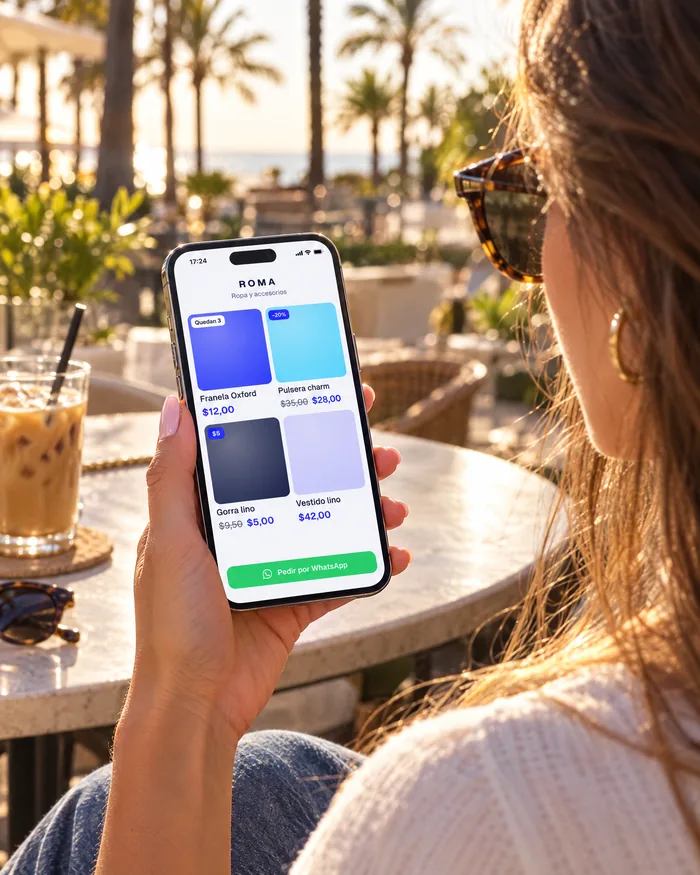
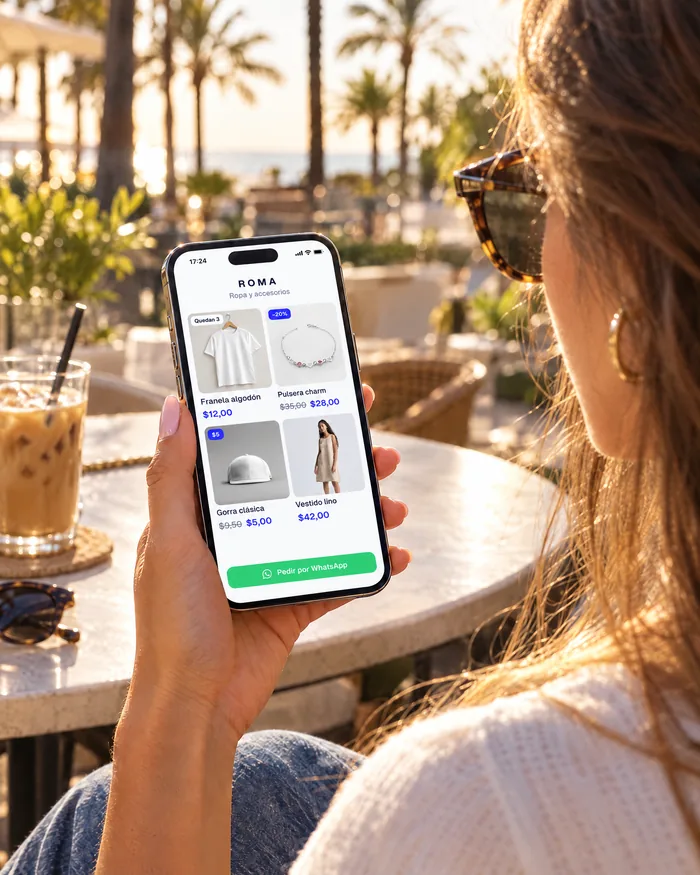
Landing: fotos reales de productos y los dos tipos de dominio
- Productos con fotos de stock de Unsplash (licencia libre) en el punto de
  venta, el inventario, la venta del mostrador y el catálogo: franela,
  pulsera charm, jean, gorra y vestido. "Franela Oxford" pasa a "Franela
  algodón" y "Gorra lino" a "Gorra clásica" para que coincidan con las fotos.
- El hero y la escena del café se regeneraron en Higgsfield con las
  pantallas nuevas, manteniendo la composición anterior.
- Marca blanca: una tienda entra por su subdominio tutienda.zetenta.app o
  por su dominio propio; la tarjeta alterna ejemplos de los dos y muestra
  el tipo.

diff --git a/landing/index.html b/landing/index.html
@@ -130,7 +130,7 @@
 
       <div class="hero-device">
         <div class="hero-device-glow" aria-hidden="true"></div>
-        <img src="/img/hero-telefonos-1600.webp" srcset="/img/hero-telefonos-900.webp 900w, /img/hero-telefonos-1600.webp 1531w" sizes="(max-width: 700px) 92vw, 760px" width="1531" height="1464" alt="Dos teléfonos con Zetenta: el punto de venta con una venta de $59,00 y el catálogo web de la tienda Roma" fetchpriority="high" />
+        <img src="/img/hero-telefonos-1600.webp" srcset="/img/hero-telefonos-900.webp 900w, /img/hero-telefonos-1600.webp 1537w" sizes="(max-width: 700px) 92vw, 760px" width="1537" height="1466" alt="Dos teléfonos con Zetenta: el punto de venta con una venta de $59,00 y el catálogo web de la tienda Roma" fetchpriority="high" />
       </div>
 
       <div class="scroll-hint mono" aria-hidden="true"><span></span>DESLIZA</div>
@@ -237,14 +237,14 @@
                 <div class="ps-head"><b>Nueva venta</b><span class="mono">ROMA</span></div>
                 <div class="ps-search">Buscar producto o SKU…</div>
                 <div class="ps-grid">
-                  <div class="ps-prod"><i style="--c:#2323FF"></i><b>Franela Oxford</b><span>$12,00</span></div>
-                  <div class="ps-prod"><i style="--c:#4CD5FF"></i><b>Pulsera charm</b><span>$35,00</span></div>
-                  <div class="ps-prod"><i style="--c:#0B0F3A"></i><b>Jean recto</b><span>$28,00</span></div>
-                  <div class="ps-prod"><i style="--c:#C9CBFF"></i><b>Gorra lino</b><span>$9,50</span></div>
+                  <div class="ps-prod"><img src="/img/productos/franela.webp" alt="" loading="lazy" /><b>Franela algodón</b><span>$12,00</span></div>
+                  <div class="ps-prod"><img src="/img/productos/pulsera.webp" alt="" loading="lazy" /><b>Pulsera charm</b><span>$35,00</span></div>
+                  <div class="ps-prod"><img src="/img/productos/jean.webp" alt="" loading="lazy" /><b>Jean recto</b><span>$28,00</span></div>
+                  <div class="ps-prod"><img src="/img/productos/gorra.webp" alt="" loading="lazy" /><b>Gorra clásica</b><span>$9,50</span></div>
                 </div>
                 <div class="ps-cart">
                   <div class="ps-line"><span>Pulsera charm ×1</span><span>$35,00</span></div>
-                  <div class="ps-line"><span>Franela Oxford M ×2</span><span>$24,00</span></div>
+                  <div class="ps-line"><span>Franela algodón M ×2</span><span>$24,00</span></div>
                   <div class="ps-total"><span>Total</span><b class="led">$59,00</b></div>
                   <div class="ps-btn">Cobrar</div>
                 </div>
@@ -339,28 +339,28 @@
           </div>
           <div class="inv-rows">
             <div class="inv-row">
-              <i class="inv-thumb" style="--c:#2323FF"></i>
-              <div class="inv-info"><b>Franela Oxford</b><div class="chips"><span class="chip" style="--c:#0B0E2A"></span><span class="chip" style="--c:#fff"></span><span class="chip" style="--c:#2323FF"></span><em>S · M · L</em></div></div>
+              <img class="inv-thumb" src="/img/productos/franela.webp" alt="" loading="lazy" />
+              <div class="inv-info"><b>Franela algodón</b><div class="chips"><span class="chip" style="--c:#0B0E2A"></span><span class="chip" style="--c:#fff"></span><span class="chip" style="--c:#2323FF"></span><em>S · M · L</em></div></div>
               <div class="inv-stock"><b class="led" data-stock="24">24</b><em>en stock</em></div>
             </div>
             <div class="inv-row">
-              <i class="inv-thumb" style="--c:#4CD5FF"></i>
-              <div class="inv-info"><b>Pulsera charm</b><div class="chips"><span class="chip" style="--c:#D8B66A"></span><span class="chip" style="--c:#C8CAD6"></span><em>Dorado · Plata</em></div></div>
+              <img class="inv-thumb" src="/img/productos/pulsera.webp" alt="" loading="lazy" />
+              <div class="inv-info"><b>Pulsera charm</b><div class="chips"><span class="chip" style="--c:#D8B66A"></span><span class="chip" style="--c:#C8CAD6"></span><em>Plata · Dorado</em></div></div>
               <div class="inv-stock"><b class="led" data-stock="11">11</b><em>en stock</em></div>
             </div>
             <div class="inv-row low">
-              <i class="inv-thumb" style="--c:#0B0F3A"></i>
+              <img class="inv-thumb" src="/img/productos/jean.webp" alt="" loading="lazy" />
               <div class="inv-info"><b>Jean recto</b><div class="chips"><em>28 · 30 · 32</em><span class="badge-low">Bajo</span></div></div>
               <div class="inv-stock"><b class="led" data-stock="3">3</b><em>en stock</em></div>
             </div>
             <div class="inv-row">
-              <i class="inv-thumb" style="--c:#C9CBFF"></i>
+              <img class="inv-thumb" src="/img/productos/vestido.webp" alt="" loading="lazy" />
               <div class="inv-info"><b>Vestido lino</b><div class="chips"><span class="chip" style="--c:#EDE3D1"></span><span class="chip" style="--c:#1E1E1E"></span><em>Única</em></div></div>
               <div class="inv-stock"><b class="led" data-stock="8">8</b><em>en stock</em></div>
             </div>
           </div>
           <div class="inv-transfer">
-            <div class="it-node"><span class="mono">PRINCIPAL</span><b>Franela Oxford M</b></div>
+            <div class="it-node"><span class="mono">PRINCIPAL</span><b>Franela algodón M</b></div>
             <div class="it-track"><i></i><i></i><i></i><i></i><i></i><span class="it-box">×6</span></div>
             <div class="it-node"><span class="mono">LECHERÍA</span><b>Traslado listo</b></div>
           </div>
@@ -386,8 +386,8 @@
             <div class="app-panel sync-pos">
               <div class="ap-head"><b>Venta</b><span class="mono">MOSTRADOR</span></div>
               <div class="sync-item">
-                <i class="inv-thumb" style="--c:#2323FF"></i>
-                <div><b>Franela Oxford · M</b><em>$12,00</em></div>
+                <img class="inv-thumb" src="/img/productos/franela.webp" alt="" loading="lazy" />
+                <div><b>Franela algodón · M</b><em>$12,00</em></div>
                 <span class="sync-qty led">×1</span>
               </div>
               <div class="sync-stockline"><span>Stock</span><b class="led" id="syncStock">3</b></div>
@@ -405,19 +405,19 @@
                 <div class="cat-head"><b>ROMA</b><span>Ropa y accesorios</span></div>
                 <div class="cat-grid">
                   <div class="cat-card" id="catCard">
-                    <div class="cat-img" style="--c:#2323FF"><span class="cat-badge" id="catBadge">Quedan 3</span></div>
-                    <b>Franela Oxford</b><span class="cat-price">$12,00</span>
+                    <div class="cat-img"><img src="/img/productos/franela.webp" alt="" loading="lazy" /><span class="cat-badge" id="catBadge">Quedan 3</span></div>
+                    <b>Franela algodón</b><span class="cat-price">$12,00</span>
                   </div>
                   <div class="cat-card">
-                    <div class="cat-img" style="--c:#4CD5FF"><span class="cat-badge off">−20%</span></div>
+                    <div class="cat-img"><img src="/img/productos/pulsera.webp" alt="" loading="lazy" /><span class="cat-badge off">−20%</span></div>
                     <b>Pulsera charm</b><span class="cat-price"><s>$35,00</s> $28,00</span>
                   </div>
                   <div class="cat-card">
-                    <div class="cat-img" style="--c:#0B0F3A"><span class="cat-badge fix">$5</span></div>
-                    <b>Gorra lino</b><span class="cat-price"><s>$9,50</s> $5,00</span>
+                    <div class="cat-img"><img src="/img/productos/gorra.webp" alt="" loading="lazy" /><span class="cat-badge fix">$5</span></div>
+                    <b>Gorra clásica</b><span class="cat-price"><s>$9,50</s> $5,00</span>
                   </div>
                   <div class="cat-card">
-                    <div class="cat-img" style="--c:#C9CBFF"></div>
+                    <div class="cat-img"><img src="/img/productos/vestido.webp" alt="" loading="lazy" /></div>
                     <b>Vestido lino</b><span class="cat-price">$42,00</span>
                   </div>
                 </div>
@@ -552,13 +552,26 @@
       <div class="wl-copy">
         <p class="eyebrow mono">TU MARCA</p>
         <h2 class="display">Tus clientes ven tu tienda. No la nuestra.</h2>
-        <p class="body-lg">Tu catálogo y tu sistema llevan tu nombre, tu logo y tu color, en tu propio dominio. Zetenta trabaja detrás.</p>
+        <p class="body-lg">Tu catálogo y tu sistema llevan tu nombre, tu logo y tu color. Zetenta trabaja detrás.</p>
+        <div class="wl-domains">
+          <div class="wl-domain">
+            <span class="mono">TU SUBDOMINIO</span>
+            <b>tutienda<i>.zetenta.app</i></b>
+            <em>Tu tienda en Zetenta, con tu nombre al frente.</em>
+          </div>
+          <div class="wl-domain">
+            <span class="mono">O TU DOMINIO PROPIO</span>
+            <b>tutienda<i>.com</i></b>
+            <em>Si ya tienes uno, tu tienda vive ahí y tus clientes solo ven tu marca.</em>
+          </div>
+        </div>
       </div>
       <div class="wl-visual">
         <div class="wl-card" id="wlCard">
           <div class="wl-top">
             <span class="wl-logo" id="wlLogo">R</span>
             <div><b id="wlName">Roma</b><em id="wlDomain">roma.zetenta.app</em></div>
+            <span class="wl-kind" id="wlKind">Subdominio</span>
           </div>
           <div class="wl-body">
             <div class="wl-field"></div>

diff --git a/landing/src/style.css b/landing/src/style.css
@@ -418,7 +418,7 @@ button { font: inherit; color: inherit; background: none; border: 0; cursor: poi
 .ps-search { background: rgba(255,255,255,.07); border-radius: 10px; padding: 9px 12px; color: rgba(255,255,255,.4); font-size: 12px; }
 .ps-grid { display: grid; grid-template-columns: 1fr 1fr; gap: 8px; }
 .ps-prod { background: rgba(255,255,255,.06); border-radius: 12px; padding: 8px; display: grid; gap: 4px; font-size: 11px; }
-.ps-prod i { display: block; aspect-ratio: 1.6; border-radius: 8px; background: radial-gradient(120% 100% at 30% 20%, color-mix(in srgb, var(--c) 70%, #fff), var(--c)); }
+.ps-prod img { display: block; width: 100%; aspect-ratio: 1.6; object-fit: cover; border-radius: 8px; background: #EEF0F6; }
 .ps-prod b { font-weight: 500; }
 .ps-prod span { color: rgba(255,255,255,.55); }
 .ps-cart { margin-top: auto; background: rgba(255,255,255,.06); border-radius: 14px; padding: 10px; display: grid; gap: 6px; font-size: 12px; }
@@ -517,7 +517,7 @@ button { font: inherit; color: inherit; background: none; border: 0; cursor: poi
 .inv-rows { display: grid; gap: 8px; }
 .inv-row { display: grid; grid-template-columns: auto 1fr auto; gap: 14px; align-items: center; padding: 12px; border-radius: 16px; background: rgba(255,255,255,.04); box-shadow: inset 0 0 0 1px rgba(255,255,255,.05); }
 .inv-row.low { box-shadow: inset 0 0 0 1px rgba(255,105,97,.35); background: rgba(255,105,97,.05); }
-.inv-thumb { width: 48px; height: 48px; border-radius: 13px; background: radial-gradient(120% 120% at 30% 20%, color-mix(in srgb, var(--c) 65%, #fff), var(--c)); box-shadow: inset 0 1px 0 rgba(255,255,255,.4); }
+.inv-thumb { width: 48px; height: 48px; border-radius: 13px; object-fit: cover; background: #EEF0F6; }
 .inv-info b { font-weight: 500; font-size: 15px; }
 .chips { display: flex; align-items: center; gap: 5px; margin-top: 4px; }
 .chip { width: 13px; height: 13px; border-radius: 4px; background: var(--c); box-shadow: inset 0 0 0 1px rgba(255,255,255,.25); }
@@ -561,8 +561,9 @@ button { font: inherit; color: inherit; background: none; border: 0; cursor: poi
 .cat-grid { display: grid; grid-template-columns: 1fr 1fr; gap: 8px; }
 .cat-card { display: grid; gap: 2px; font-size: 10.5px; transition: opacity .4s, filter .4s; }
 .cat-card b { font-weight: 500; }
-.cat-img { position: relative; aspect-ratio: 1; border-radius: 10px; background: radial-gradient(120% 120% at 30% 20%, color-mix(in srgb, var(--c) 55%, #fff), var(--c)); }
-.cat-badge { position: absolute; top: 5px; left: 5px; font-size: 9px; font-weight: 600; padding: 2px 6px; border-radius: 6px; background: #fff; color: var(--tinta); }
+.cat-img { position: relative; aspect-ratio: 1; border-radius: 10px; overflow: hidden; background: #EEF0F6; }
+.cat-img img { position: absolute; inset: 0; width: 100%; height: 100%; object-fit: cover; }
+.cat-badge { position: absolute; z-index: 1; top: 5px; left: 5px; font-size: 9px; font-weight: 600; padding: 2px 6px; border-radius: 6px; background: #fff; color: var(--tinta); }
 .cat-badge.off, .cat-badge.fix { background: var(--azul); color: #fff; }
 .cat-badge.out { background: var(--tinta); color: #fff; }
 .cat-card.sold { opacity: .55; filter: grayscale(.6); }
@@ -723,6 +724,15 @@ button { font: inherit; color: inherit; background: none; border: 0; cursor: poi
 .wl-top div { display: grid; }
 .wl-top b { font-size: 20px; letter-spacing: -.02em; }
 .wl-top em { font-style: normal; font-family: var(--font-mono); font-size: 12px; color: var(--gris); }
+.wl-top > div { flex: 1; min-width: 0; }
+.wl-top em { overflow: hidden; text-overflow: ellipsis; white-space: nowrap; }
+.wl-kind { flex: none; font-size: 11px; font-weight: 600; padding: 4px 9px; border-radius: 999px; background: color-mix(in srgb, var(--brand) 12%, transparent); color: var(--brand); transition: background .6s, color .6s; }
+.wl-domains { display: grid; grid-template-columns: 1fr 1fr; gap: 12px; margin-top: 28px; }
+.wl-domain { display: grid; gap: 6px; align-content: start; padding: 18px; border-radius: var(--r-lg); background: #fff; box-shadow: var(--shadow-card); }
+.wl-domain .mono { color: var(--azul); font-size: 11px; }
+.wl-domain b { font-size: clamp(17px, 1.5vw, 20px); font-weight: 600; letter-spacing: -.02em; overflow-wrap: anywhere; }
+.wl-domain b i { font-style: normal; color: var(--azul); }
+.wl-domain em { font-style: normal; font-size: 13.5px; color: var(--gris); line-height: 1.45; }
 .wl-body { display: grid; gap: 10px; margin: 26px 0 22px; }
 .wl-field { height: 44px; border-radius: 12px; background: var(--papel); box-shadow: inset 0 0 0 1px var(--border); }
 .wl-field.short { width: 70%; }
@@ -787,6 +797,7 @@ button { font: inherit; color: inherit; background: none; border: 0; cursor: poi
 @media (max-width: 900px) {
   .feature, .wl { grid-template-columns: 1fr; }
   .shops-grid { grid-template-columns: 1fr; }
+  .wl-domains { grid-template-columns: 1fr; }
   .shot-low { margin-top: 0; }
   .feature-rev .feature-copy { order: 0; }
   .proofs { grid-template-columns: 1fr; }

diff --git a/landing/src/main.js b/landing/src/main.js
@@ -667,10 +667,11 @@ function sky() {
    ============================================================ */
 function whiteLabel() {
   const brands = [
-    { name: 'Roma', domain: 'roma.zetenta.app', color: '#2323FF' },
-    { name: 'Lina Boutique', domain: 'tienda.linaboutique.com', color: '#E0457B' },
-    { name: 'Verde Café', domain: 'pedidos.verdecafe.com', color: '#0E8A6A' },
-    { name: 'Ferre Centro', domain: 'ferrecentro.zetenta.app', color: '#F28C28' },
+    // Un negocio entra por su subdominio de zetenta.app o por su dominio propio.
+    { name: 'Roma', domain: 'roma.zetenta.app', kind: 'Subdominio', color: '#2323FF' },
+    { name: 'Lina Boutique', domain: 'linaboutique.com', kind: 'Dominio propio', color: '#E0457B' },
+    { name: 'Verde Café', domain: 'verdecafe.zetenta.app', kind: 'Subdominio', color: '#0E8A6A' },
+    { name: 'Ferre Centro', domain: 'tienda.ferrecentro.com', kind: 'Dominio propio', color: '#F28C28' },
   ];
   const card = $('#wlCard');
   const sw = $$('.wl-swatches i');
@@ -679,15 +680,16 @@ function whiteLabel() {
   const apply = () => {
     const b = brands[i];
     gsap.timeline()
-      .to(['#wlName', '#wlDomain', '#wlLogo'], { opacity: 0, y: -6, duration: .2, stagger: .03 })
+      .to(['#wlName', '#wlDomain', '#wlLogo', '#wlKind'], { opacity: 0, y: -6, duration: .2, stagger: .03 })
       .call(() => {
         card.style.setProperty('--brand', b.color);
         $('#wlName').textContent = b.name;
         $('#wlDomain').textContent = b.domain;
+        $('#wlKind').textContent = b.kind;
         $('#wlLogo').textContent = b.name[0];
         sw.forEach((s, j) => s.classList.toggle('on', j === i));
       })
-      .to(['#wlName', '#wlDomain', '#wlLogo'], { opacity: 1, y: 0, duration: .35, stagger: .04 });
+      .to(['#wlName', '#wlDomain', '#wlLogo', '#wlKind'], { opacity: 1, y: 0, duration: .35, stagger: .04 });
   };
   sw[0].classList.add('on');
   ScrollTrigger.create({

diff --git a/landing/README.md b/landing/README.md
@@ -31,6 +31,14 @@ npm run build         # compila la app y luego la landing en dist/l
 - `public/fonts`: Geist, Geist Mono y Doto del paquete de marca (OFL).
 - `public/img`: mockups del paquete de marca en WebP y la versión con
   tratamiento LED del punto de venta (`herramientas/zetenta_led.py`).
+- `public/img/productos`: fotos de producto de Unsplash (licencia libre, uso
+  comercial sin atribución): franela `1778671394516-8270eac13c42`, pulsera
+  `1676291055501-286c48bb186f`, jean `1637069585336-827b298fe84a`, gorra
+  `1691256676359-20e5c6d4bc92`, vestido `1747396206869-75ea57b325ce`
+  (`images.unsplash.com/photo-<id>`).
+- Teléfonos del hero, cobro y escenas de la dueña y el café: generados con
+  Higgsfield (GPT Image 2.5) usando capturas de estas mismas pantallas como
+  referencia.
 
 Con `prefers-reduced-motion` no hay loader ni secciones fijadas: el contenido
 se muestra en su estado final.
